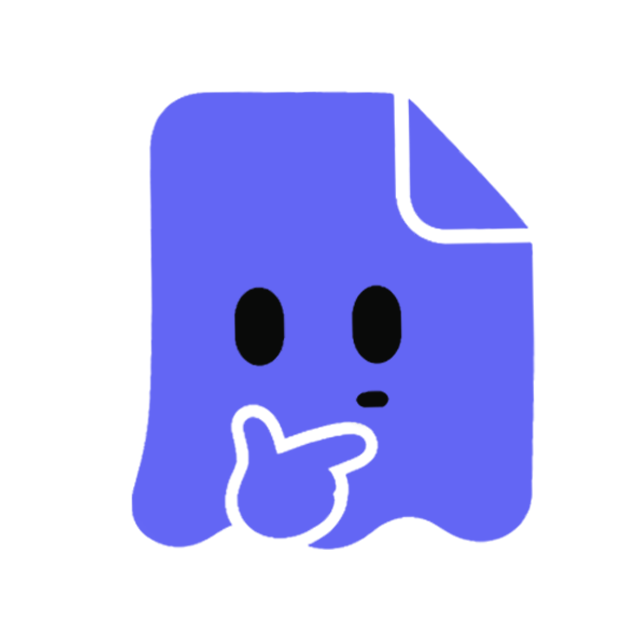
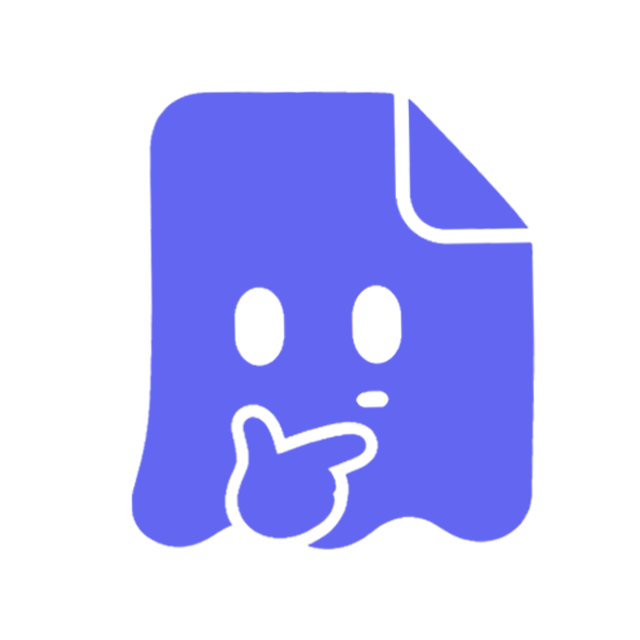
feat: login obligatorio (Supabase Auth: Google + email) — Fase A
- SDK @user/supabase-js + cliente (activo solo si hay env; si no, corre local).
- AuthGate: exige iniciar sesión cuando Supabase está configurado; LoginScreen con
  Google + email/contraseña (entrar/crear cuenta).
- Cerrar sesión en Ajustes. Guía SETUP-AUTH.md (env, Google OAuth, tabla para sync).
- Sync (Fase B) queda listo para activar tras verificar el login.

Generated-By: PostHog Code
Task-Id: 3fa9bc1b-bdca-46b3-a6d8-2a490526db76

Changed region(s): [[0.5312, 0.4375, 0.625, 0.6562], [0.3438, 0.4375, 0.4688, 0.5938]]

diff --git a/src/features/auth/LoginScreen.tsx b/src/features/auth/LoginScreen.tsx
@@ -1,0 +1,149 @@
+import { useState } from 'react'
+import { motion } from 'framer-motion'
+import { supabase } from '../../lib/supabase'
+import { GlassButton } from '../../components/ui/GlassButton'
+import { EASE } from '../../lib/motion'
+
+export function LoginScreen() {
+  const [mode, setMode] = useState<'in' | 'up'>('in')
+  const [email, setEmail] = useState('')
+  const [password, setPassword] = useState('')
+  const [loading, setLoading] = useState(false)
+  const [msg, setMsg] = useState<string | null>(null)
+
+  async function google() {
+    setMsg(null)
+    await supabase?.auth.signInWithOAuth({
+      provider: 'google',
+      options: { redirectTo: window.location.origin },
+    })
+  }
+
+  async function emailAuth() {
+    if (!email.trim() || !password || loading) return
+    setLoading(true)
+    setMsg(null)
+    try {
+      if (mode === 'in') {
+        const { error } = await supabase!.auth.signInWithPassword({
+          email: email.trim(),
+          password,
+        })
+        if (error) throw error
+      } else {
+        const { error } = await supabase!.auth.signUp({
+          email: email.trim(),
+          password,
+        })
+        if (error) throw error
+        setMsg('¡Cuenta creada! Revisa tu correo si te pide confirmar.')
+      }
+    } catch (e) {
+      setMsg(e instanceof Error ? e.message : 'No se pudo, intenta de nuevo.')
+    } finally {
+      setLoading(false)
+    }
+  }
+
+  return (
+    <div className="mx-auto flex h-[100dvh] w-full max-w-md flex-col items-center justify-center px-6">
+      <motion.div
+        initial={{ opacity: 0, y: 16, filter: 'blur(10px)' }}
+        animate={{ opacity: 1, y: 0, filter: 'blur(0px)' }}
+        transition={{ duration: 0.5, ease: EASE.smooth }}
+        className="glass glass-highlight w-full rounded-4xl p-6"
+      >
+        <div className="mb-5 text-center">
+          <img
+            src="/logoapp.png"
+            alt="Brody"
+            className="mx-auto mb-3 h-16 w-16 rounded-2xl object-contain"
+          />
+          <h1 className="text-2xl font-bold text-ink">Brody</h1>
+          <p className="mt-1 text-sm text-ink/55">
+            {mode === 'in' ? 'Inicia sesión para continuar' : 'Crea tu cuenta'}
+          </p>
+        </div>
+
+        <GlassButton variant="glass" full onClick={google} className="mb-4">
+          <GoogleG /> Continuar con Google
+        </GlassButton>
+
+        <div className="mb-4 flex items-center gap-3 text-xs text-ink/40">
+          <span className="h-px flex-1 bg-ink/10" /> o con tu correo{' '}
+          <span className="h-px flex-1 bg-ink/10" />
+        </div>
+
+        <div className="space-y-2">
+          <input
+            type="email"
+            inputMode="email"
+            value={email}
+            onChange={(e) => setEmail(e.target.value)}
+            placeholder="Correo"
+            className="w-full rounded-2xl border border-ink/15 bg-ink/5 px-4 py-3 text-ink outline-none placeholder:text-ink/30 focus:border-ink/40"
+          />
+          <input
+            type="password"
+            value={password}
+            onChange={(e) => setPassword(e.target.value)}
+            onKeyDown={(e) => e.key === 'Enter' && emailAuth()}
+            placeholder="Contraseña"
+            className="w-full rounded-2xl border border-ink/15 bg-ink/5 px-4 py-3 text-ink outline-none placeholder:text-ink/30 focus:border-ink/40"
+          />
+        </div>
+
+        {msg && (
+          <p className="mt-3 text-center text-sm text-rose-500 dark:text-rose-300">
+            {msg}
+          </p>
+        )}
+
+        <GlassButton
+          variant="primary"
+          full
+          disabled={loading || !email.trim() || !password}
+          onClick={emailAuth}
+          className="mt-4"
+        >
+          {mode === 'in' ? 'Entrar' : 'Crear cuenta'}
+        </GlassButton>
+
+        <button
+          onClick={() => {
+            setMode((m) => (m === 'in' ? 'up' : 'in'))
+            setMsg(null)
+          }}
+          className="mt-4 w-full text-center text-sm font-medium text-ink/55"
+        >
+          {mode === 'in'
+            ? '¿No tienes cuenta? Crea una'
+            : '¿Ya tienes cuenta? Inicia sesión'}
+        </button>
+      </motion.div>
+    </div>
+  )
+}
+
+function GoogleG() {
+  return (
+    <svg viewBox="0 0 24 24" className="h-5 w-5">
+      <path
+        fill="#4285F4"
+        d="M23.5 12.3c0-.8-.1-1.6-.2-2.3H12v4.5h6.5c-.3 1.5-1.1 2.7-2.4 3.6v3h3.9c2.3-2.1 3.5-5.2 3.5-8.8Z"
+      />
+      <path
+        fill="#34A853"
+        d="M12 24c3.2 0 5.9-1.1 7.9-2.9l-3.9-3c-1.1.7-2.5 1.2-4 1.2-3.1 0-5.7-2.1-6.6-4.9H1.4v3.1C3.4 21.3 7.4 24 12 24Z"
+      />
+      <path
+        fill="#FBBC05"
+        d="M5.4 14.4c-.2-.7-.4-1.4-.4-2.4s.1-1.6.4-2.4V6.5H1.4C.5 8.2 0 10 0 12s.5 3.8 1.4 5.5l4-3.1Z"
+      />
+      <path
+        fill="#EA4335"
+        d="M12 4.8c1.8 0 3.3.6 4.6 1.8l3.4-3.4C17.9 1.2 15.2 0 12 0 7.4 0 3.4 2.7 1.4 6.5l4 3.1C6.3 6.8 8.9 4.8 12 4.8Z"
+      />
+    </svg>
+  )
+}

diff --git a/src/features/auth/AuthGate.tsx b/src/features/auth/AuthGate.tsx
@@ -1,0 +1,43 @@
+import { useEffect, useState, type ReactNode } from 'react'
+import type { Session } from '@supabase/supabase-js'
+import { supabase, supabaseReady } from '../../lib/supabase'
+import { LoginScreen } from './LoginScreen'
+
+/**
+ * Portón de autenticación. Si Supabase está configurado, exige iniciar sesión
+ * (login obligatorio). Si aún NO está configurado, deja pasar (la app corre local),
+ * así producción no se rompe mientras se termina el setup.
+ */
+export function AuthGate({ children }: { children: ReactNode }) {
+  const [session, setSession] = useState<Session | null>(null)
+  const [loading, setLoading] = useState(supabaseReady)
+
+  useEffect(() => {
+    if (!supabase) return
+    supabase.auth.getSession().then(({ data }) => {
+      setSession(data.session)
+      setLoading(false)
+    })
+    const { data: sub } = supabase.auth.onAuthStateChange((_e, s) =>
+      setSession(s),
+    )
+    return () => sub.subscription.unsubscribe()
+  }, [])
+
+  if (!supabaseReady) return <>{children}</>
+
+  if (loading) {
+    return (
+      <div className="flex h-[100dvh] items-center justify-center">
+        <img
+          src="/logoapp.png"
+          alt="Brody"
+          className="h-16 w-16 animate-pulse rounded-2xl object-contain"
+        />
+      </div>
+    )
+  }
+
+  if (!session) return <LoginScreen />
+  return <>{children}</>
+}

diff --git a/src/pages/Settings.tsx b/src/pages/Settings.tsx
@@ -7,6 +7,7 @@ import { GlassButton } from '../components/ui/GlassButton'
 import { Toggle } from '../components/ui/Toggle'
 import { ChevronLeft, PlusIcon } from '../components/ui/Icons'
 import { useInstallPrompt } from '../lib/useInstallPrompt'
+import { supabase, supabaseReady } from '../lib/supabase'
 
 const PRESETS: { label: string; scale: GradeScale }[] = [
   { label: 'Chile 1,0 – 7,0', scale: { min: 1, max: 7, pass: 4 } },
@@ -177,8 +178,20 @@ export function Settings({ navigate }: { navigate: (r: Route) => void }) {
         </div>
       </section>
 
+      {supabaseReady && (
+        <div className="mt-6">
+          <GlassButton
+            variant="ghost"
+            full
+            onClick={() => supabase?.auth.signOut()}
+          >
+            Cerrar sesión
+          </GlassButton>
+        </div>
+      )}
+
       <p className="mt-8 text-center text-xs text-ink/30">
-        Brody · v0.1 · Tus datos se guardan en este dispositivo.
+        Brody · v0.1
       </p>
     </div>
   )

diff --git a/src/lib/supabase.ts b/src/lib/supabase.ts
@@ -1,0 +1,12 @@
+import { createClient, type SupabaseClient } from '@supabase/supabase-js'
+
+const url = import.meta.env.VITE_SUPABASE_URL as string | undefined
+const anon = import.meta.env.VITE_SUPABASE_ANON_KEY as string | undefined
+
+/** true si hay credenciales de Supabase → el login/auth está activo. */
+export const supabaseReady = !!(url && anon)
+
+/** Cliente de Supabase (null si aún no está configurado → la app corre local). */
+export const supabase: SupabaseClient | null = supabaseReady
+  ? createClient(url as string, anon as string)
+  : null

diff --git a/src/App.tsx b/src/App.tsx
@@ -10,6 +10,7 @@ import { Calendario } from './pages/Calendario'
 import { Settings } from './pages/Settings'
 import { SubjectDetail } from './features/subjects/SubjectDetail'
 import { ChatPage } from './features/chat/ChatPage'
+import { AuthGate } from './features/auth/AuthGate'
 import { EASE } from './lib/motion'
 import { accentLightRgb, accentRgb } from './lib/accents'
 import { useAppStore } from './store/useAppStore'
@@ -59,6 +60,7 @@ export default function App() {
   return (
     <>
       <AnimatedMesh />
+      <AuthGate>
       <div className="mx-auto h-full w-full max-w-md overflow-hidden">
         <AnimatePresence mode="wait">
           <motion.div
@@ -96,6 +98,7 @@ export default function App() {
         onClose={() => setMenuOpen(false)}
         navigate={setRoute}
       />
+      </AuthGate>
     </>
   )
 }

diff --git a/SETUP-AUTH.md b/SETUP-AUTH.md
@@ -1,0 +1,54 @@
+# Activar el login (Supabase Auth: Google + Email) — guía
+
+El login ya está en la app. Se **activa solo** cuando pongas las variables de Supabase
+(mientras tanto, la app corre local sin pedir cuenta, para no romper producción).
+
+## 1) Variables de entorno (Vercel)
+En **Supabase → Project Settings → API** copia:
+- **Project URL** → `VITE_SUPABASE_URL` (ej: `https://trtcqkyqmminnugouxxg.supabase.co`)
+- **anon public key** → `VITE_SUPABASE_ANON_KEY` (empieza con `eyJ...`; es pública, va en el frontend)
+
+En **Vercel → Settings → Environment Variables** agrégalas y haz **Redeploy**.
+(Para probar local: ponlas en un archivo `.env` — ver `.env.example`.)
+
+## 2) Email / contraseña
+Ya viene activo en Supabase (**Authentication → Providers → Email**).
+Tip: para probar sin confirmar correo, desactiva **"Confirm email"** en ese mismo lugar.
+
+## 3) Google
+1. **Supabase → Authentication → Providers → Google → Enable.** Copia el **Callback URL**
+   que muestra (algo como `https://TU_REF.supabase.co/auth/v1/callback`).
+2. **Google Cloud Console** (console.cloud.google.com):
+   - Crea un proyecto → **APIs & Services → OAuth consent screen** (External; pon nombre
+     de la app y tu correo).
+   - **Credentials → Create credentials → OAuth client ID → Web application**.
+   - En **Authorized redirect URIs** pega el Callback URL de Supabase.
+   - En **Authorized JavaScript origins** pon tu URL de Vercel (y `http://localhost:5173`
+     para probar).
+   - Crea → copia **Client ID** y **Client Secret**.
+3. Pega Client ID + Secret en **Supabase → Providers → Google → Save**.
+
+## 4) URLs de redirección (Supabase)
+En **Authentication → URL Configuration**:
+- **Site URL** = tu URL de Vercel.
+- **Redirect URLs**: agrega tu URL de Vercel y `http://localhost:5173`.
+
+## 5) Listo
+Con las env puestas y redeploy, la app pedirá **iniciar sesión** (Google o email).
+
+---
+
+## Próximo: sincronización en la nube (Fase B)
+Cuando confirmes que el login funciona, activamos el **sync** de tus datos. Deja lista
+esta tabla en **Supabase → SQL Editor**:
+
+```sql
+create table if not exists public.app_state (
+  user_id uuid primary key references auth.users(id) on delete cascade,
+  data jsonb not null default '{}',
+  updated_at timestamptz not null default now()
+);
+alter table public.app_state enable row level security;
+create policy "own state" on public.app_state
+  for all using (auth.uid() = user_id) with check (auth.uid() = user_id);
+```